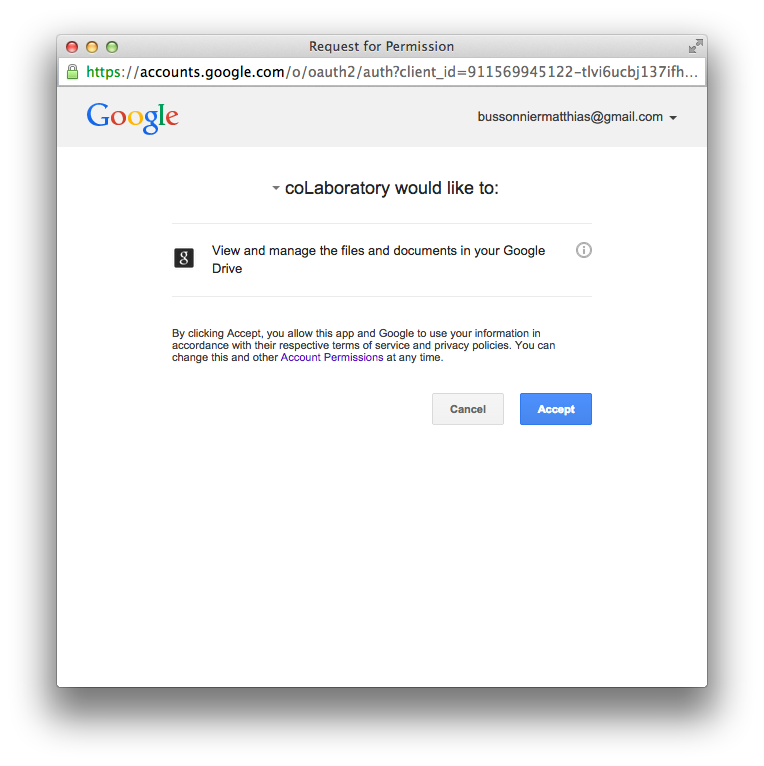
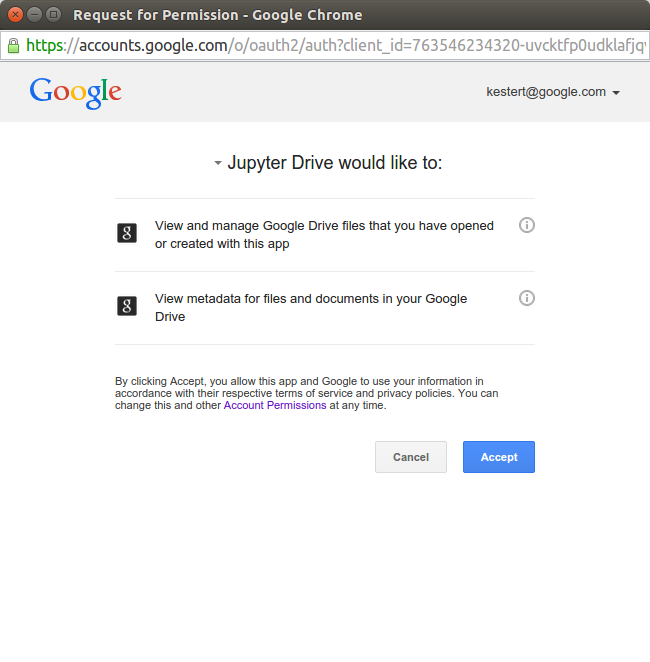
update readme

diff --git a/README.md b/README.md
@@ -57,9 +57,9 @@ The request pop-up looks like the following:
 
 ![](img/auth.png)
 
-Clicking ok will open a Google Oauth pop-up.  You will see that the application
-name appears as `coLaboratory`. Keep that in mind if you want to revoke access
-at a later point.
+Clicking ok will open a Google Oauth pop-up.  You will see that the `Jupyter
+Drive` application want access to some informations about your files. Keep that
+in mind if you want to revoke access at a later point.
 
 ![](img/popup.png)
 
